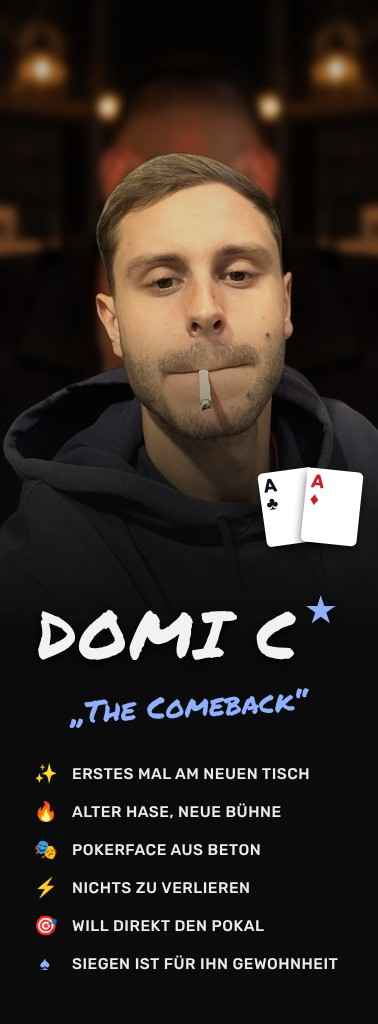
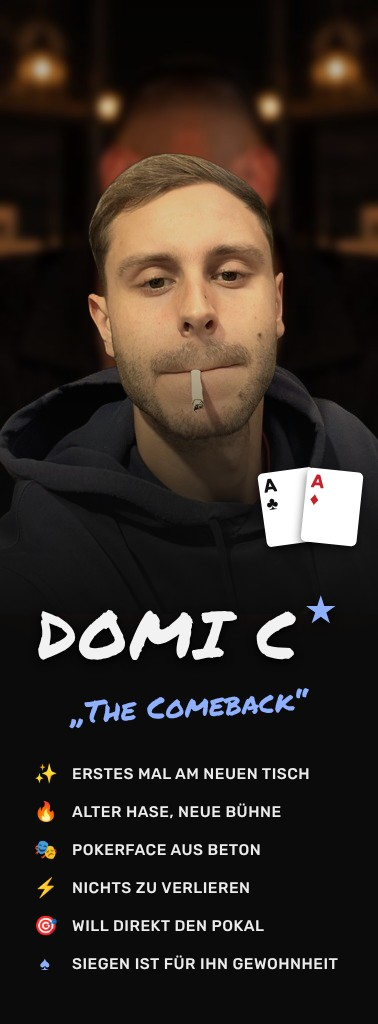
Tafel: Oli-Karte mit Hintergrundanimation
Claude-Session: https://claude.ai/code/session_01AgPGxtPjejjny7eWLZxXgy

diff --git a/tafel/index.html b/tafel/index.html
@@ -170,7 +170,17 @@ label.f textarea{min-height:150px;font-family:var(--mono);font-size:13px}
 .intro{position:fixed;inset:0;z-index:33;display:flex;align-items:center;justify-content:center;gap:5vw;background:radial-gradient(ellipse at 35% 50%,rgba(143,29,29,.45),rgba(0,0,0,.94) 60%);backdrop-filter:blur(10px)}
 .intro[hidden]{display:none}
 .inC{height:84vh;aspect-ratio:378/1024;border-radius:1.2vw;overflow:hidden;box-shadow:0 0 0 2px var(--gold3),0 0 0 6px #0b0b0b,0 0 0 7px rgba(226,184,87,.4),0 4vh 10vh rgba(0,0,0,.9),0 0 8vw rgba(226,184,87,.18)}
+.inC{position:relative}
 .inC img{width:100%;height:100%;object-fit:cover;display:block}
+.inC .anim,.inC .fg{position:absolute;left:0;top:0;width:100%;height:62.5%}
+.inC .fg{object-fit:fill;-webkit-mask-image:linear-gradient(180deg,#000 72%,transparent 98%);mask-image:linear-gradient(180deg,#000 72%,transparent 98%)}
+.inC .anim{overflow:hidden;mix-blend-mode:screen}
+.inC .anim i{position:absolute;left:var(--x);top:var(--y);width:var(--s);height:var(--s);border-radius:50%;background:radial-gradient(circle,rgba(255,200,120,.9),rgba(255,160,60,.35) 45%,transparent 70%);animation:bok var(--d) ease-in-out var(--w) infinite alternate}
+@keyframes bok{0%{opacity:.15;transform:translate(0,0) scale(.8)}50%{opacity:.9}100%{opacity:.3;transform:translate(1.2vw,-2vh) scale(1.15)}}
+.inC .smk{position:absolute;left:-30%;top:10%;width:160%;height:70%;background:radial-gradient(ellipse 40% 30% at 30% 50%,rgba(200,200,210,.14),transparent 70%),radial-gradient(ellipse 35% 25% at 70% 40%,rgba(200,200,210,.1),transparent 70%);animation:smk 9s ease-in-out infinite alternate;filter:blur(6px)}
+@keyframes smk{to{transform:translateX(18%) translateY(-8%)}}
+.inC .shine{position:absolute;inset:0;background:linear-gradient(115deg,transparent 35%,rgba(255,240,200,.18) 48%,transparent 60%);transform:translateX(-120%);animation:shn 3.2s 1s ease-in-out infinite}
+@keyframes shn{60%,100%{transform:translateX(120%)}}
 .inPh{width:100%;height:100%;background:#fff;color:#111;display:flex;flex-direction:column;align-items:center;justify-content:center;gap:2vh}
 .inPh b{font-size:14vh;color:#c8202a}.inPh span{font-size:5vh;font-weight:800}
 .inT{max-width:40vw}
@@ -699,16 +709,21 @@ function drawOverview(a){
 }
 
 /* ---------- player cards: one by one after the seat draw ---------- */
-const CARDS={"tim":"karten/tim.jpg","niklas":"karten/niklas.jpg","niki":"karten/niklas.jpg","nico":"karten/nico.jpg","manu":"karten/manu.jpg","domi m":"karten/magg.jpg","domi c":"karten/domi-c.jpg","magg":"karten/magg.jpg"};
+const CARDS={"tim":"karten/tim.jpg","niklas":"karten/niklas.jpg","niki":"karten/niklas.jpg","nico":"karten/nico.jpg","manu":"karten/manu.jpg","domi m":"karten/magg.jpg","domi c":{img:"karten/domi-c.jpg",fg:"karten/domi-c-fg.png"},"oli":{img:"karten/oli.jpg",fg:"karten/oli-fg.png"},"olli":{img:"karten/oli.jpg",fg:"karten/oli-fg.png"},"magg":"karten/magg.jpg"};
 const cardOf=n=>(S.cards&&S.cards[n.toLowerCase()])||CARDS[n.toLowerCase()]||null;
-Object.values(CARDS).forEach(u=>{const i=new Image();i.src=u;});
+Object.values(CARDS).forEach(u=>[].concat(typeof u==="string"?u:[u.img,u.fg]).forEach(x=>{const i=new Image();i.src=x;}));
+function cardHtml(c){
+  if(!c)return null;const o=typeof c==="string"?{img:c}:c;
+  const bokeh=Array.from({length:14},(_,j)=>'<i style="--x:'+(Math.random()*100).toFixed(0)+'%;--y:'+(Math.random()*95).toFixed(0)+'%;--s:'+(6+Math.random()*26).toFixed(0)+'px;--d:'+(3+Math.random()*5).toFixed(1)+'s;--w:'+(Math.random()*-6).toFixed(1)+'s"></i>').join("");
+  return '<img src="'+o.img+'" alt="">'+(o.fg?'<div class="anim">'+bokeh+'<b class="smk"></b></div><img class="fg" src="'+o.fg+'" alt="">':'')+'<span class="shine"></span>';
+}
 let intro=null;
 function introShow(list,done){
   const box=$("intro");let k=0;intro={next:()=>{clearTimeout(intro.t);k++;step();},stop:()=>{clearTimeout(intro.t);box.hidden=true;intro=null;done&&done();}};
   function step(){
     if(k>=list.length){box.hidden=true;intro=null;done&&done();return;}
     const p=list[k],img=cardOf(p.name),suit=["♠","♥","♣","♦"][k%4];
-    box.innerHTML='<div class="inC">'+(img?'<img src="'+img+'" alt="">':'<div class="inPh"><b>'+suit+'</b><span>'+esc(p.name)+'</span></div>')+'</div>'+
+    box.innerHTML='<div class="inC">'+(img?cardHtml(img):'<div class="inPh"><b>'+suit+'</b><span>'+esc(p.name)+'</span></div>')+'</div>'+
       '<div class="inT"><div class="eyebrow">'+(k===0?'Platz 1 · Dealer-Platz':'Platz '+(k+1)+' von '+list.length)+'</div><h3>'+esc(p.name)+'</h3>'+(k===S.dealer?'<div class="inD">Startet mit dem Dealer-Button</div>':'')+
       '<div class="dots">'+list.map((_,j)=>'<i class="'+(j<k?"d":j===k?"on":"")+'"></i>').join("")+'</div></div>';
     box.hidden=false;box.classList.remove("go");void box.offsetWidth;box.classList.add("go");
